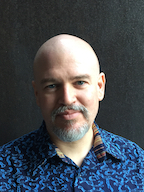
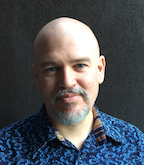
Adding image for Treasurer

diff --git a/include/curmembers.php b/include/curmembers.php
@@ -12,16 +12,9 @@
               echo "<div class='row'>";
       }
       //Add Photo
-      if($file != "4_Treasurer"){
-              echo "<div class='col-md-2'>
-                      <img src='assets/img/$file.jpg' class='img-responsive'>
-                    </div>";
-      }
-      else{
-              echo "<div class='col-md-2'>
-                      <img src='assets/img/404.jpg' class='img-responsive'>
-                    </div>";
-      }
+      echo "<div class='col-md-2'>
+              <img src='assets/img/$file.jpg' class='img-responsive'>
+            </div>";
       // Member Name
       echo "<div class='col-md-4'>
             <div class='list-group'>
